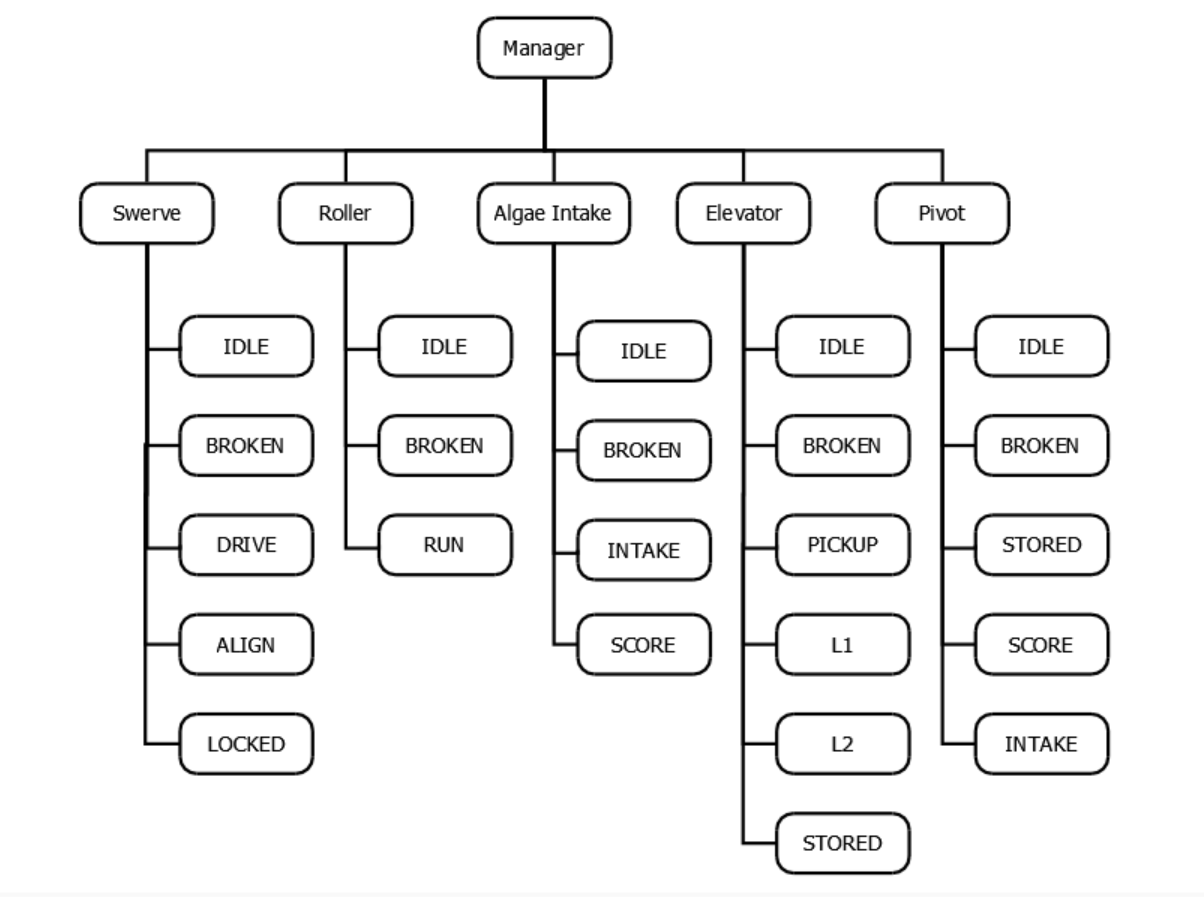
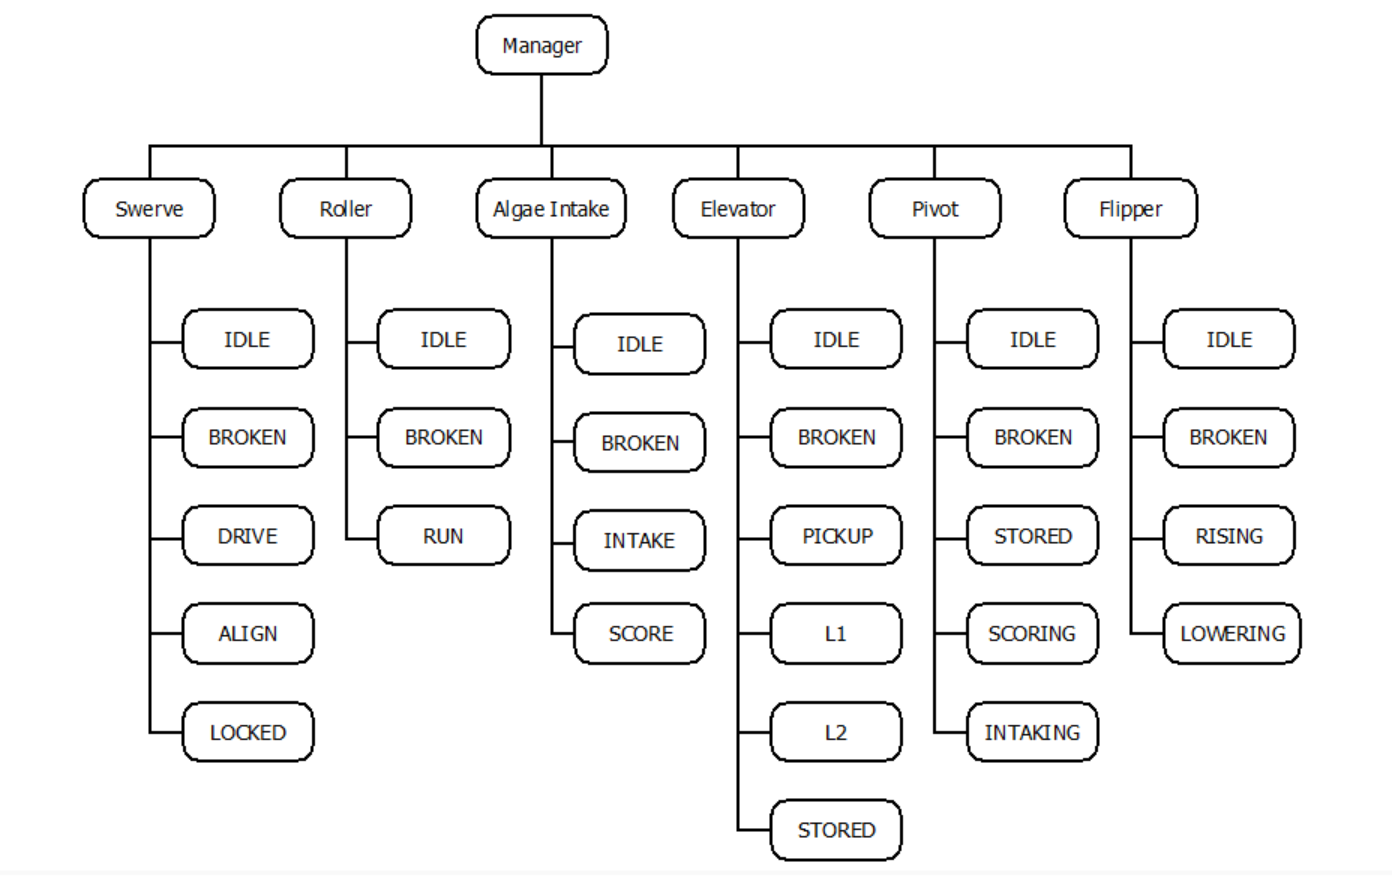
Changes to robot overall design

Changed region(s): [[0.0615, 0.0, 0.9527, 0.9863]]

diff --git a/src/main/java/frc/robot/subsystems/Flipper.java b/src/main/java/frc/robot/subsystems/Flipper.java
@@ -1,0 +1,17 @@
+// Copyright (c) FIRST and other WPILib contributors.
+// Open Source Software; you can modify and/or share it under the terms of
+// the WPILib BSD license file in the root directory of this project.
+
+package frc.robot.subsystems;
+
+import edu.wpi.first.wpilibj2.command.SubsystemBase;
+
+public class Flipper extends SubsystemBase {
+  /** Creates a new Flipper. */
+  public Flipper() {}
+
+  @Override
+  public void periodic() {
+    // This method will be called once per scheduler run
+  }
+}

diff --git a/src/main/java/frc/robot/subsystems/Elevator.java b/src/main/java/frc/robot/subsystems/Elevator.java
@@ -6,9 +6,9 @@ package frc.robot.subsystems;
 
 import edu.wpi.first.wpilibj2.command.SubsystemBase;
 
-public class Arm extends SubsystemBase {
+public class Elevator extends SubsystemBase {
   /** Creates a new Arm. */
-  public Arm() {}
+  public Elevator() {}
 
   @Override
   public void periodic() {
